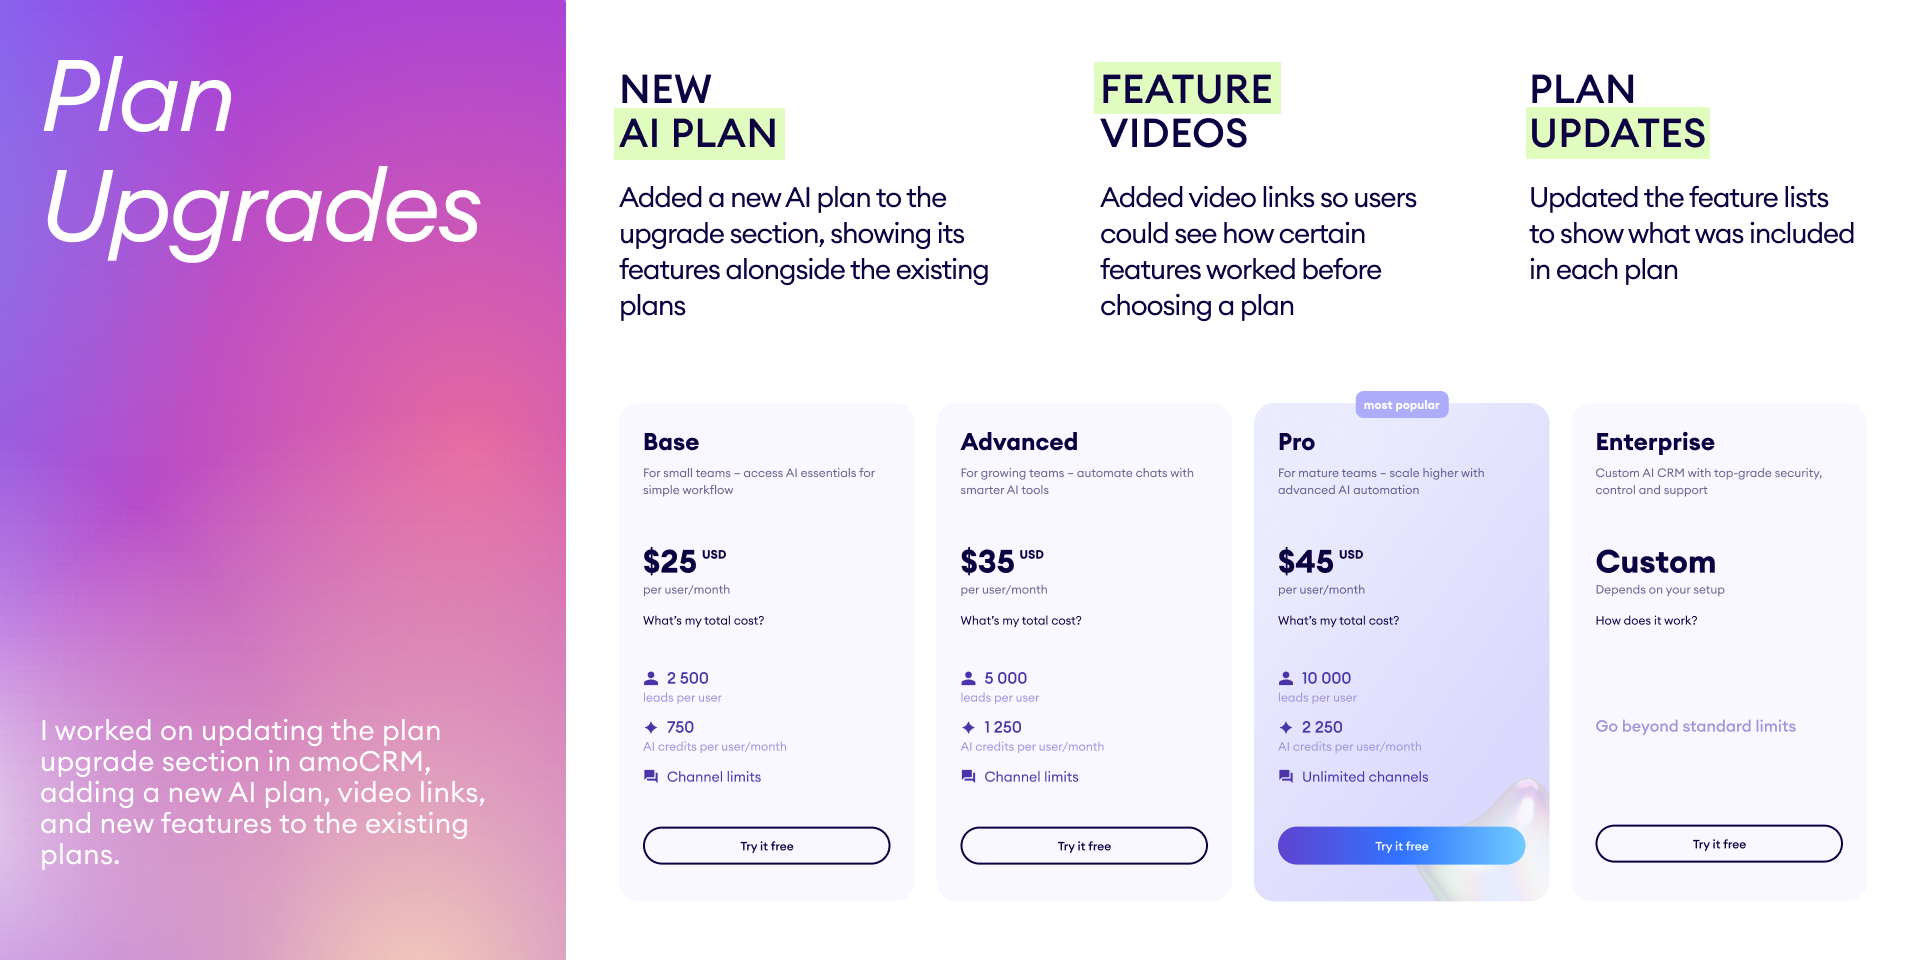
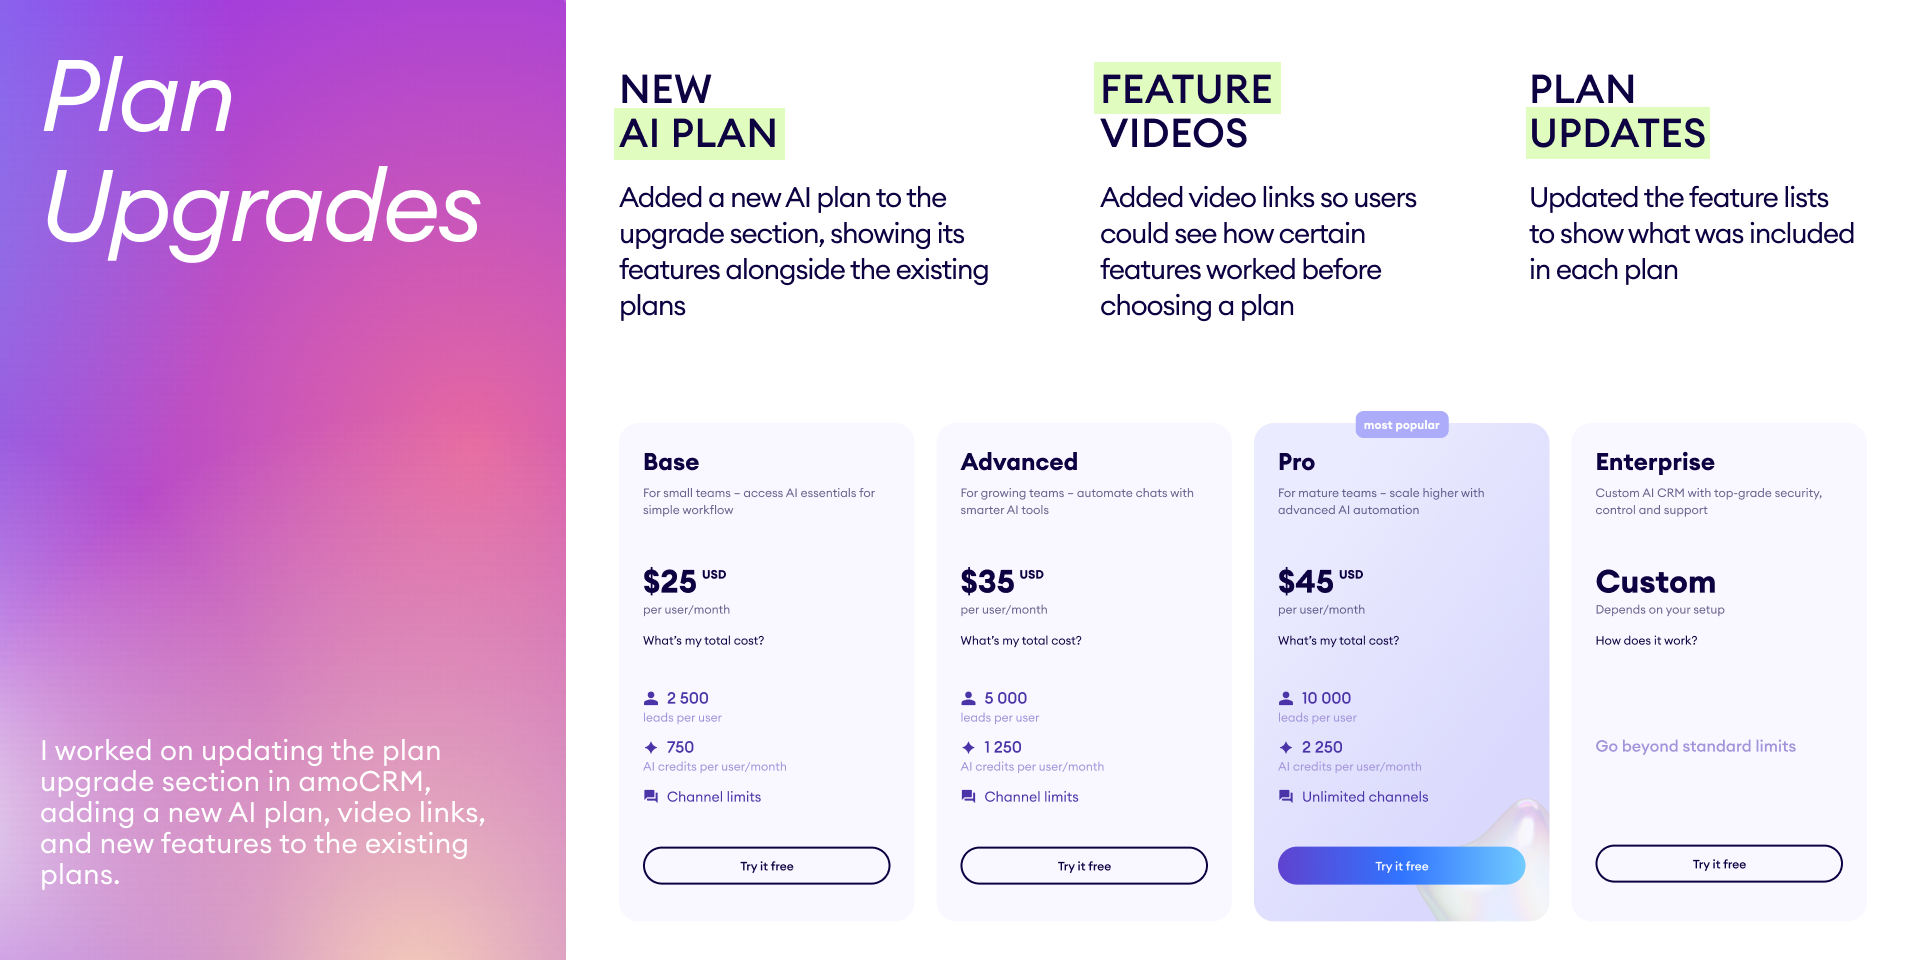
Update Site source

diff --git a/amocrm.html b/amocrm.html
@@ -225,7 +225,7 @@
               <p>I grouped the navigation into core CRM features and messaging channels, with short descriptions to help users understand each option. I also highlighted AI features and customer stories in separate cards.</p>
             </div>
             <figure class="case-story__media case-story__media--inset">
-              <img src="design/assets/amocrm/screens/3.png" width="1920" height="960" alt="Annotated Kommo trial upgrade experience with status, benefits, and options" loading="lazy" decoding="async" />
+              <img src="design/assets/amocrm/screens/3.png" data-ru-src="design/assets/amocrm/screens/3-ru.png" width="1920" height="960" alt="Annotated Kommo trial upgrade experience with status, benefits, and options" loading="lazy" decoding="async" />
             </figure>
           </section>
 
@@ -255,7 +255,7 @@
               </div>
             </div>
             <figure class="case-story__media case-story__media--wide">
-              <img src="design/assets/amocrm/screens/5.png" width="1920" height="960" alt="Kommo plan upgrades with an AI plan, feature videos, and updated plan details" loading="lazy" decoding="async" />
+              <img src="design/assets/amocrm/screens/5.png" data-ru-src="design/assets/amocrm/screens/5-ru.png" width="1920" height="960" alt="Kommo plan upgrades with an AI plan, feature videos, and updated plan details" loading="lazy" decoding="async" />
             </figure>
           </section>
 

diff --git a/dist/amocrm.html b/dist/amocrm.html
@@ -225,7 +225,7 @@
               <p>I grouped the navigation into core CRM features and messaging channels, with short descriptions to help users understand each option. I also highlighted AI features and customer stories in separate cards.</p>
             </div>
             <figure class="case-story__media case-story__media--inset">
-              <img src="design/assets/amocrm/screens/3.png" width="1920" height="960" alt="Annotated Kommo trial upgrade experience with status, benefits, and options" loading="lazy" decoding="async" />
+              <img src="design/assets/amocrm/screens/3.png" data-ru-src="design/assets/amocrm/screens/3-ru.png" width="1920" height="960" alt="Annotated Kommo trial upgrade experience with status, benefits, and options" loading="lazy" decoding="async" />
             </figure>
           </section>
 
@@ -255,7 +255,7 @@
               </div>
             </div>
             <figure class="case-story__media case-story__media--wide">
-              <img src="design/assets/amocrm/screens/5.png" width="1920" height="960" alt="Kommo plan upgrades with an AI plan, feature videos, and updated plan details" loading="lazy" decoding="async" />
+              <img src="design/assets/amocrm/screens/5.png" data-ru-src="design/assets/amocrm/screens/5-ru.png" width="1920" height="960" alt="Kommo plan upgrades with an AI plan, feature videos, and updated plan details" loading="lazy" decoding="async" />
             </figure>
           </section>
 
